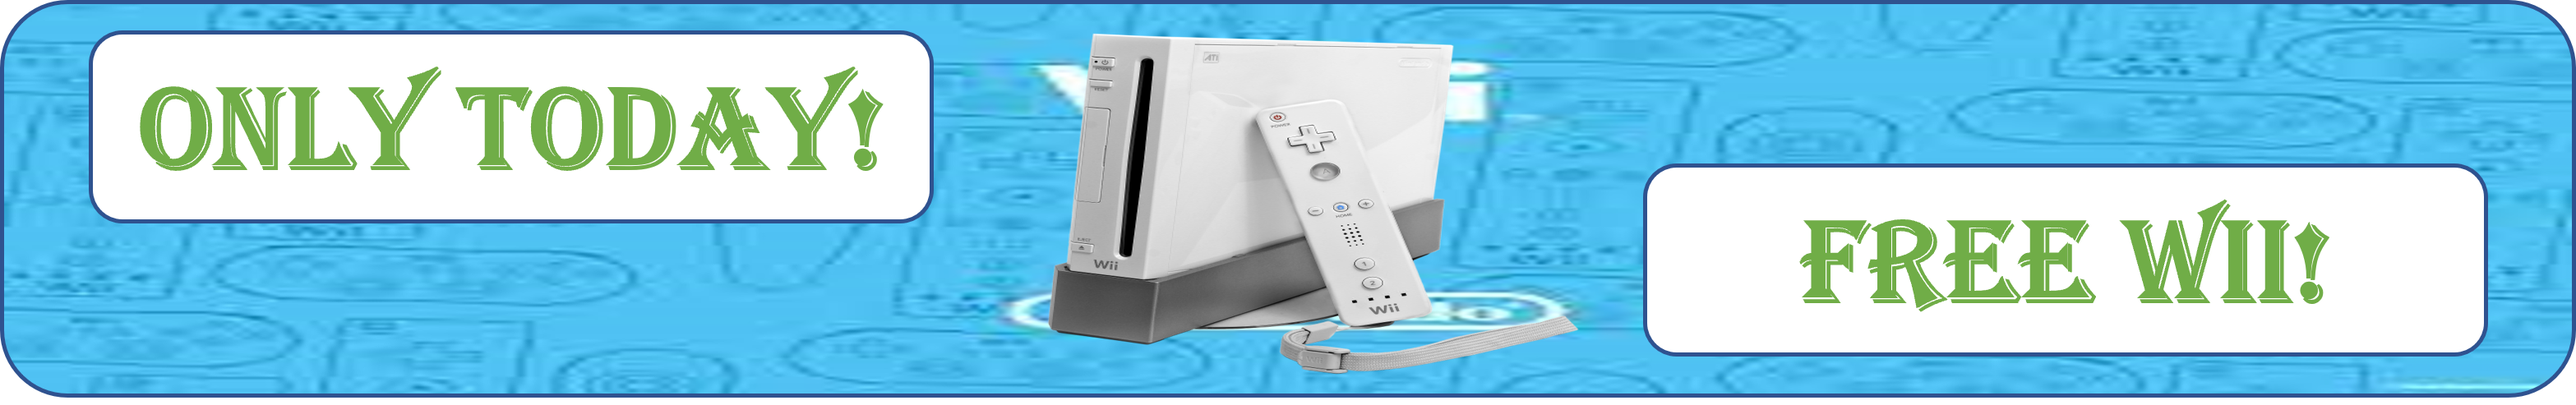
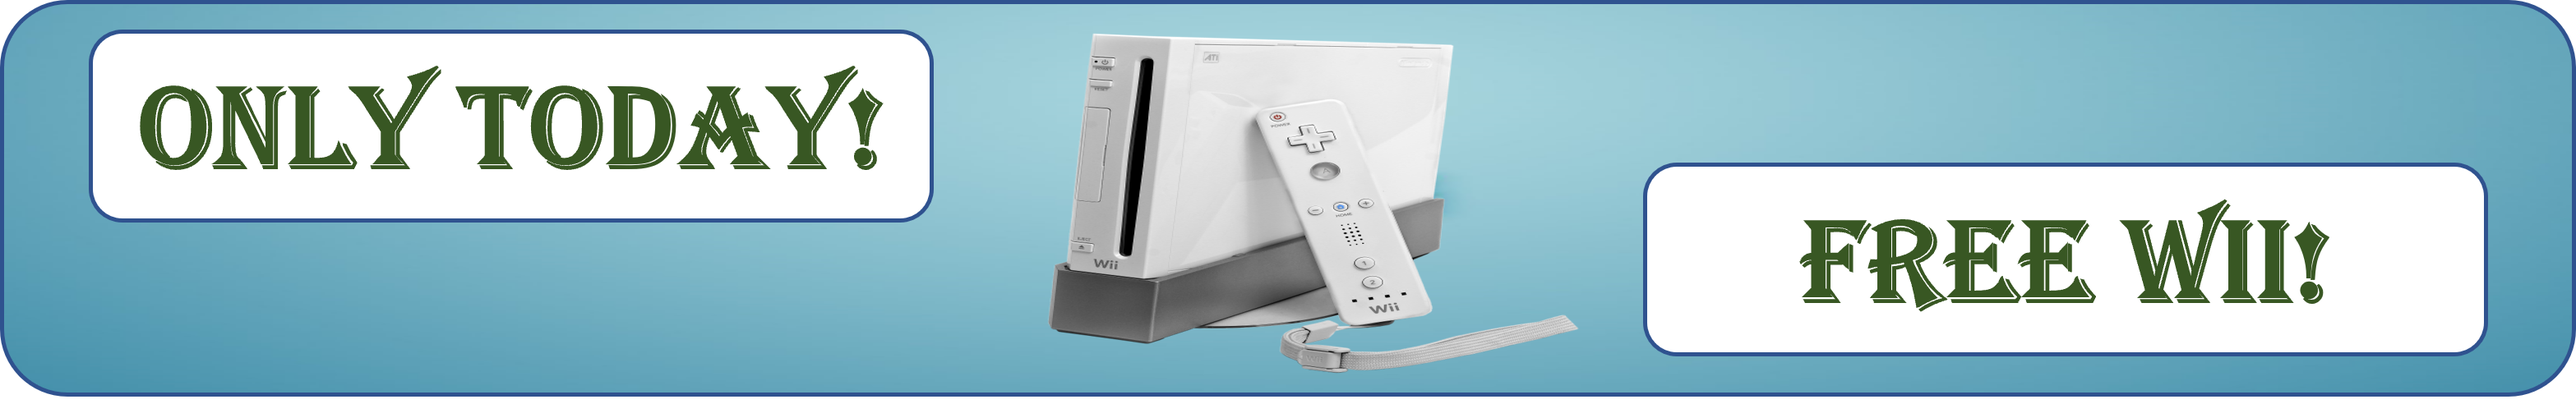
new-font

diff --git a/open-page-d.css b/open-page-d.css
@@ -21,7 +21,8 @@
     width: 90vw;
     margin-bottom: 1vw;
     margin-left: 2vw;
-    animation: slideIn 1s ease-in-out 
+    animation: slideIn 1s ease-in-out;
+    font-family: 'Lucida Sans', 'Lucida Sans Regular', 'Lucida Grande', 'Lucida Sans Unicode', Geneva, Verdana, sans-serif;
   }
   
   a:link, a:visited {

diff --git a/style.css b/style.css
@@ -59,6 +59,7 @@ height: 20vw;
 border-radius: 2%;
 margin: 0.5vw;
 transition: transform .2s;
+box-shadow: 0 10px 15px rgba(0,0,0,0.3);
 }
 
 
@@ -99,6 +100,7 @@ transition: transform .2s;
 }
 .product:hover{
   transform: scale(1.2);
+  
 }
 
 
